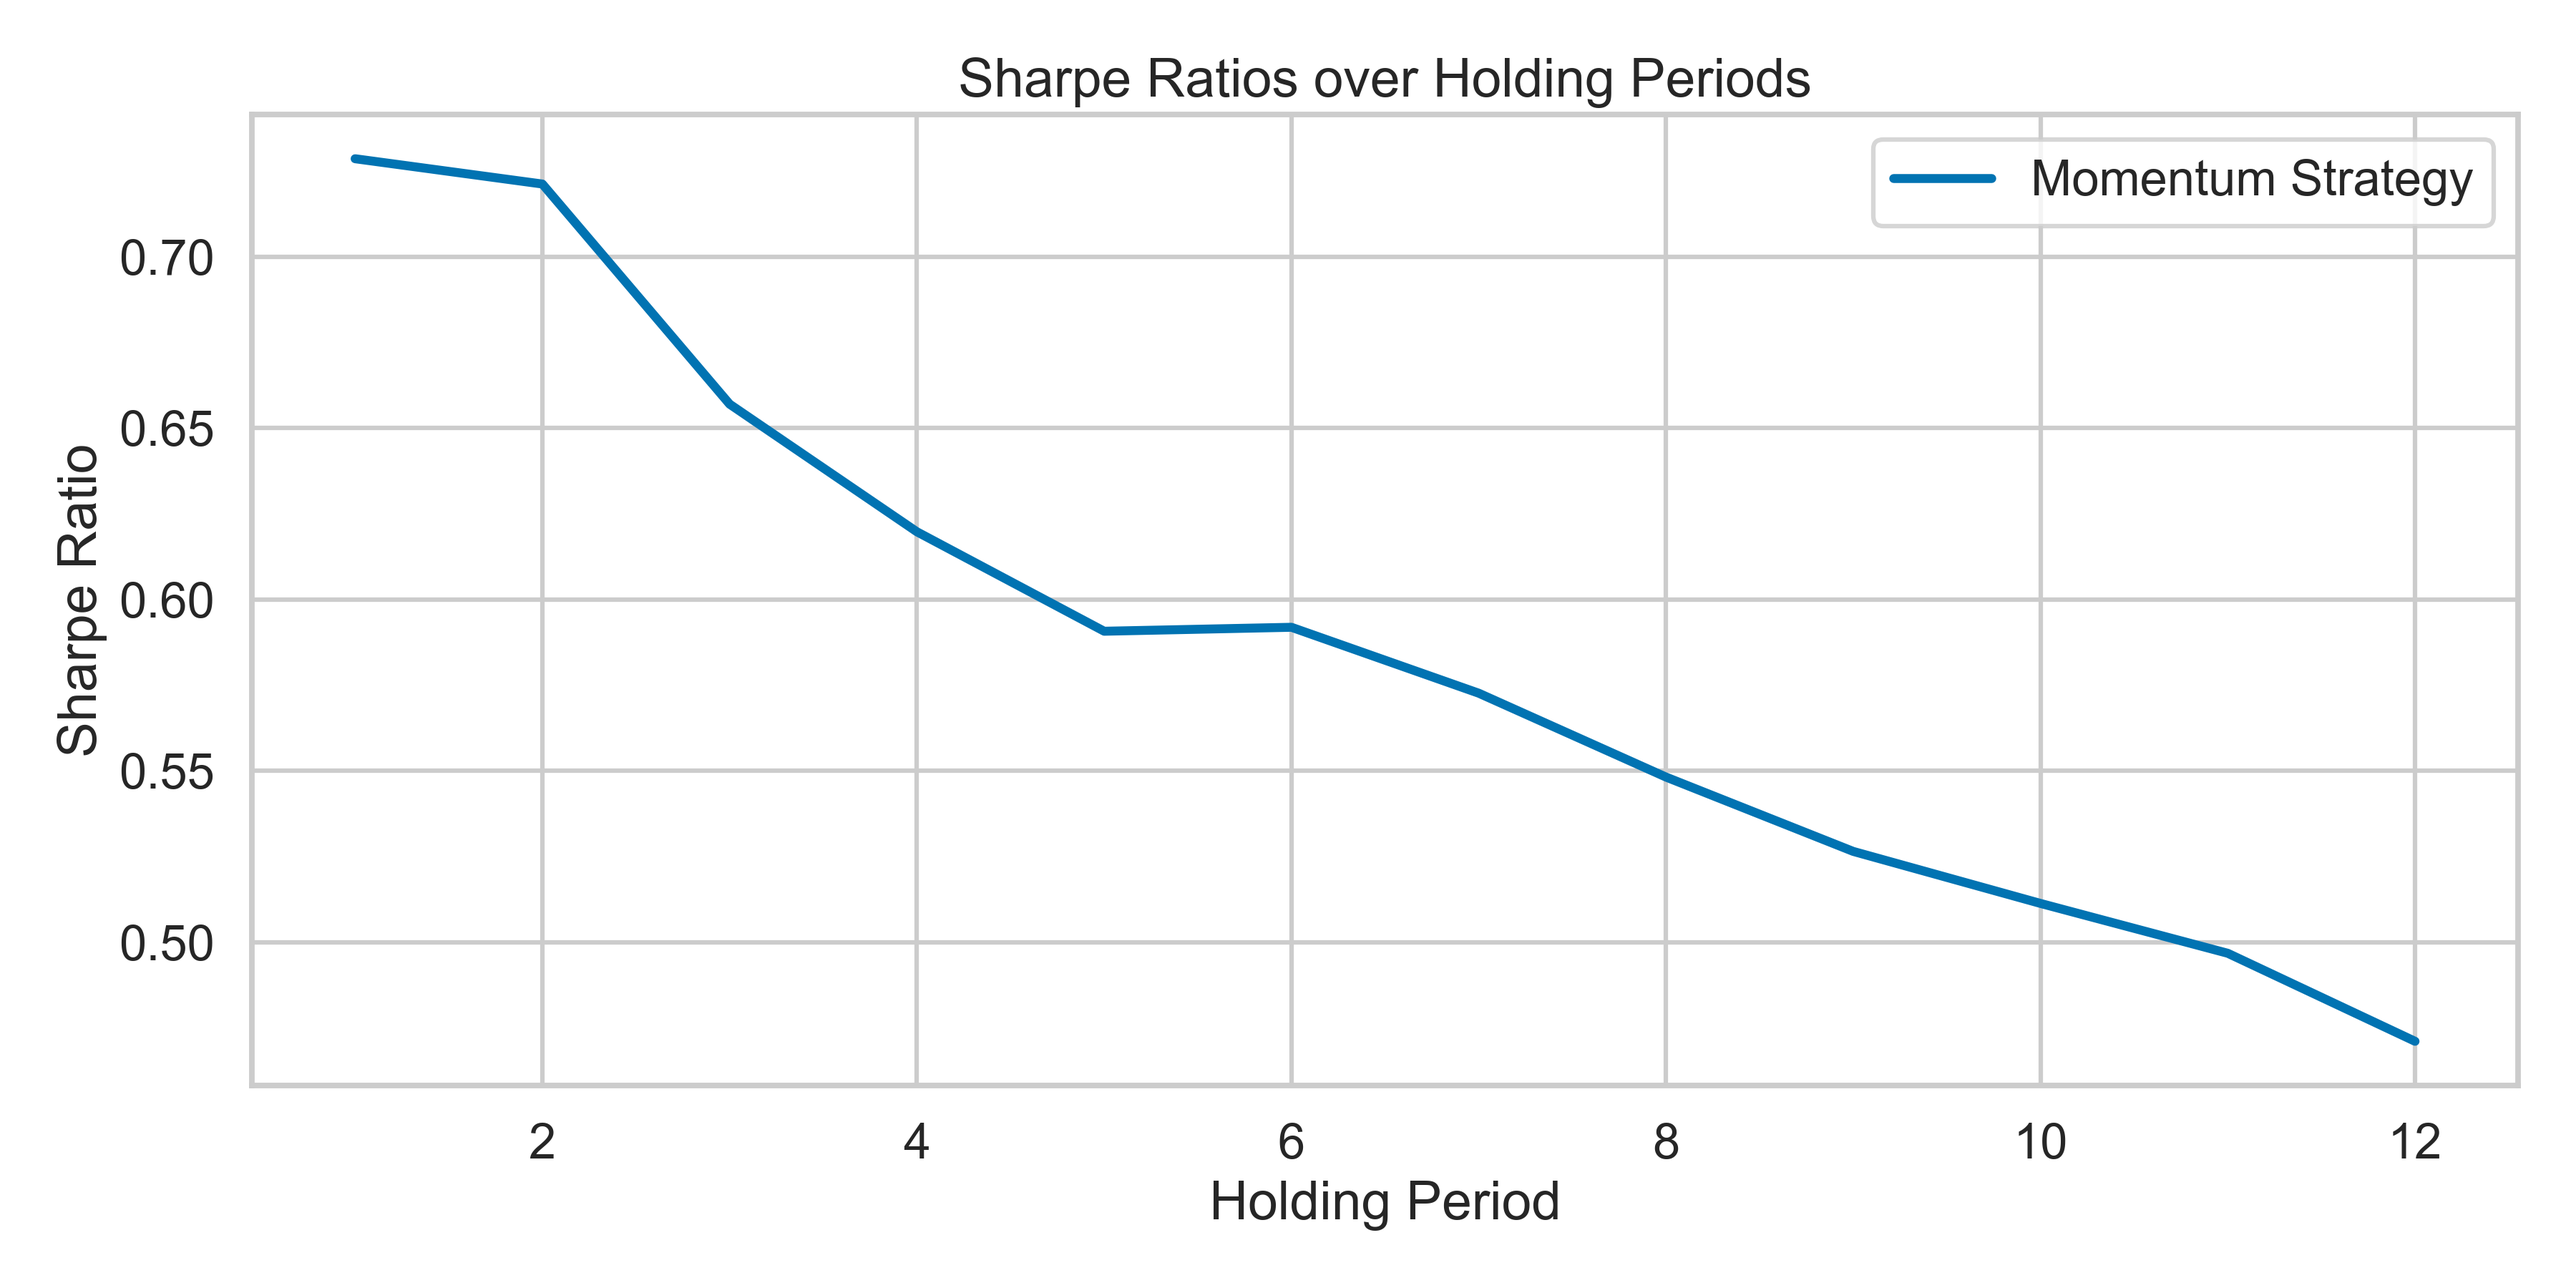
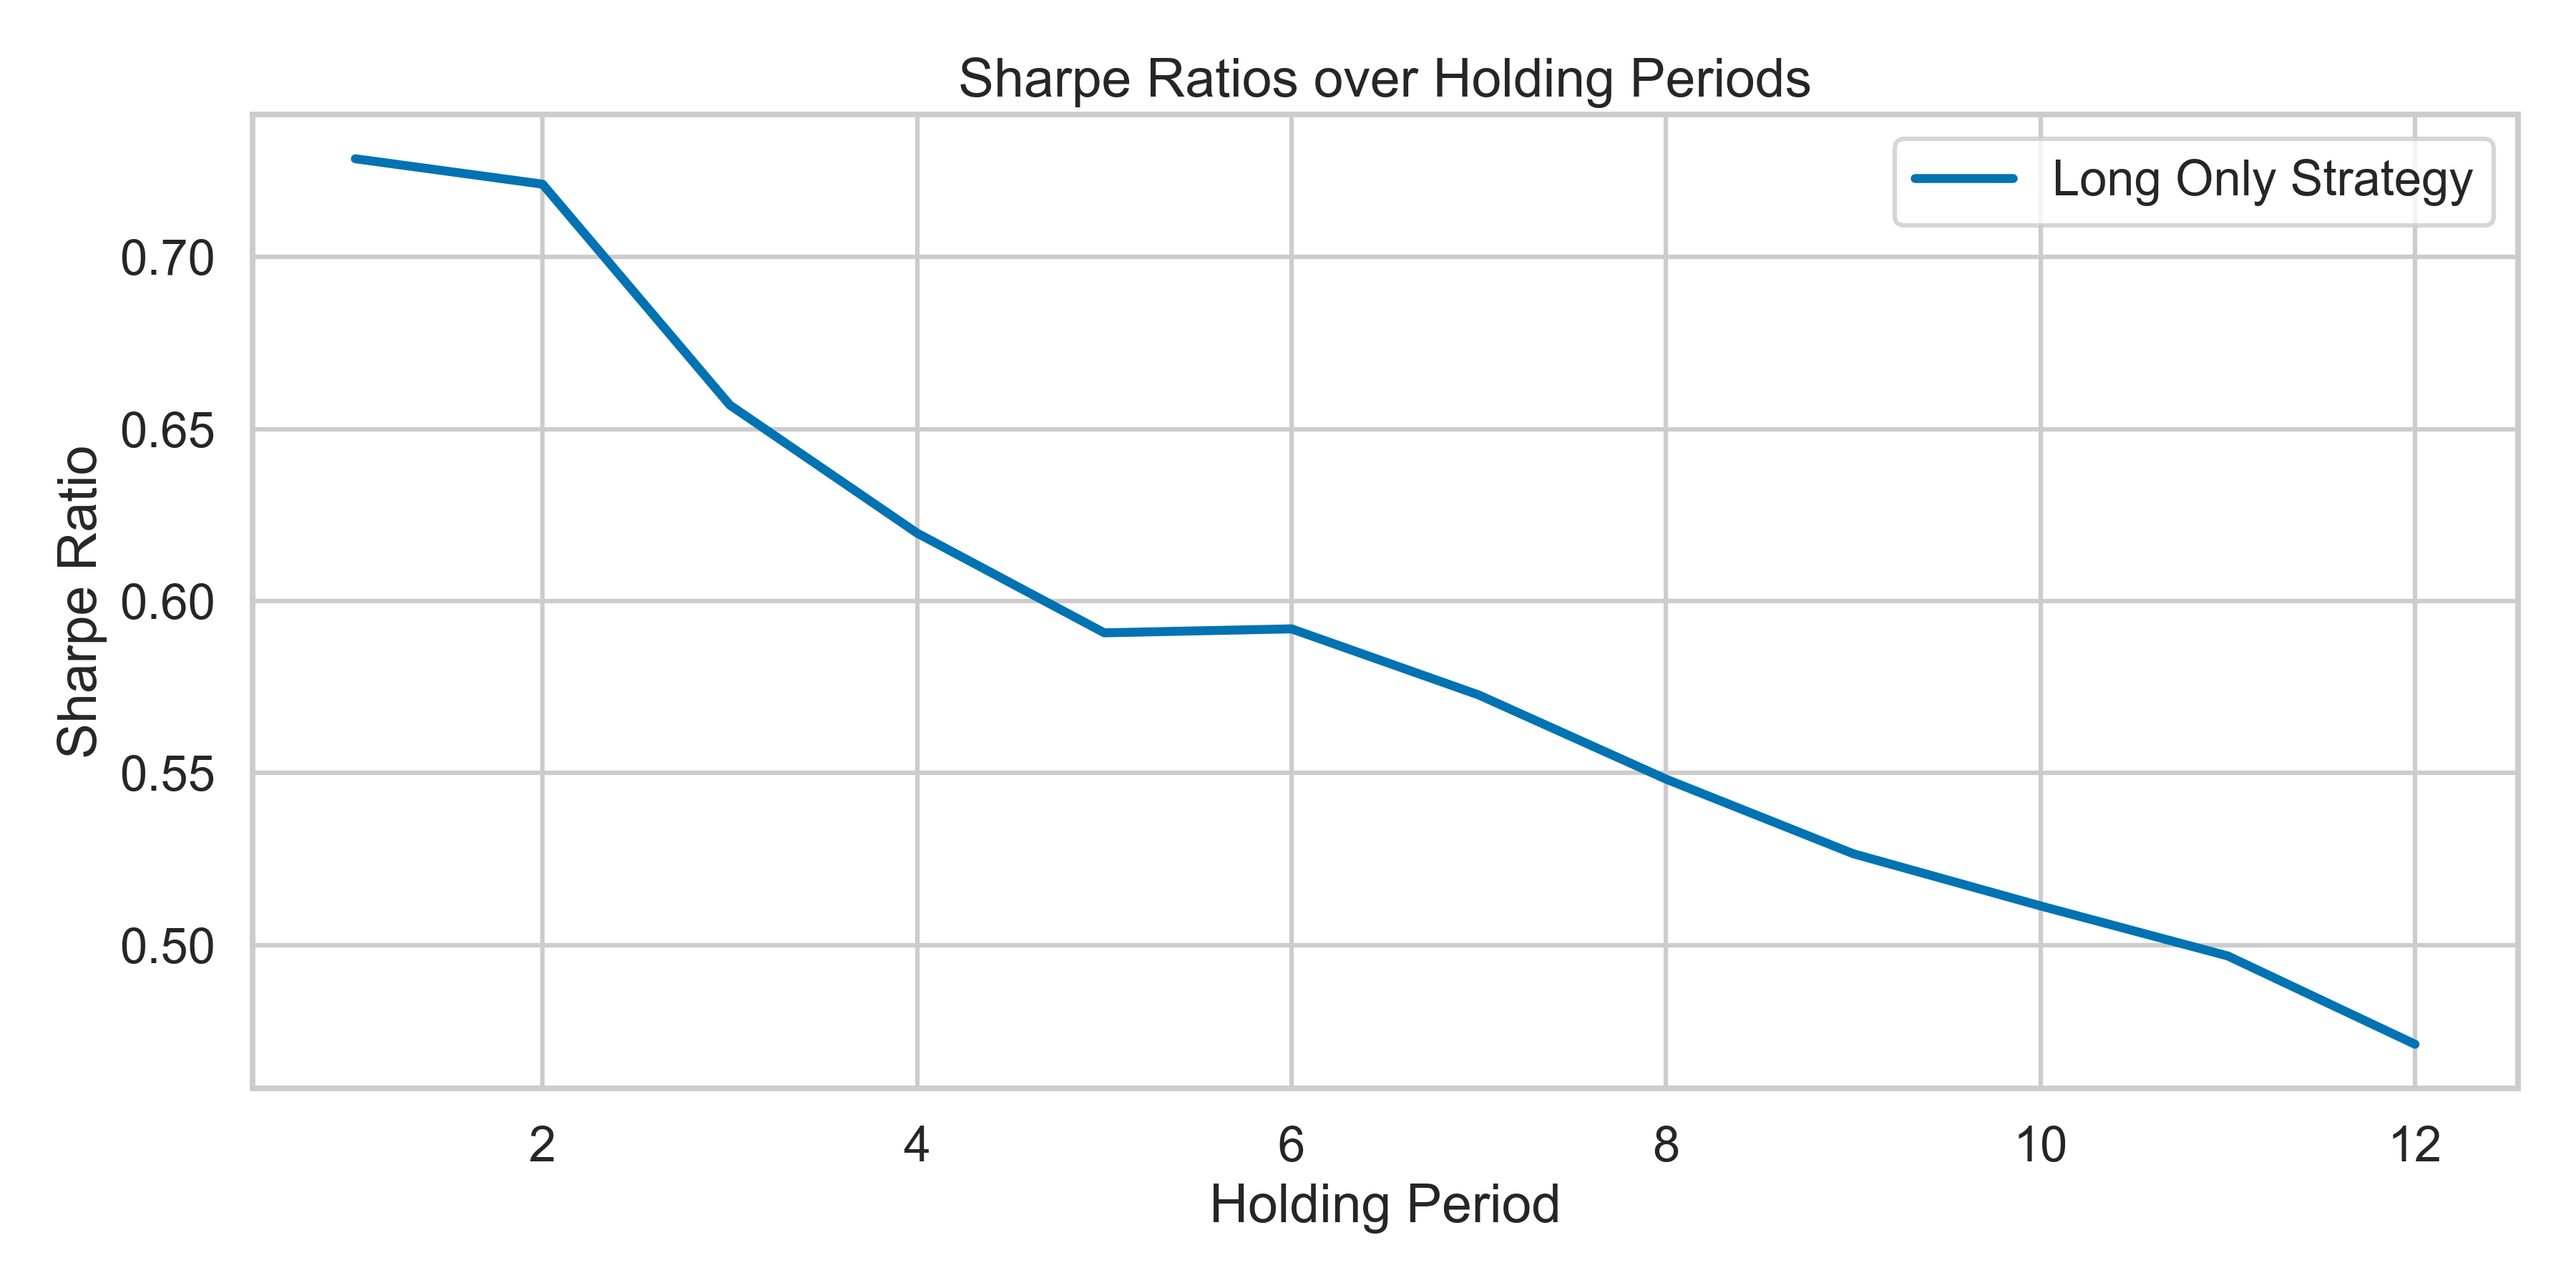
Small changes in main.py \MK

diff --git a/src/analysis/main.py b/src/analysis/main.py
@@ -132,13 +132,13 @@ def main():
     
     # Custom labels
     labels = {
-        'Strategy_Returns': 'Long Momentum Strategy',
+        'Strategy_Returns': 'Long Only Strategy',
         'Benchmark': 'SPI',
-        'Portfolio_Returns': 'Long Momentum Strategy',
-        'xs_Return': 'Long Momentum Strategy',
-        'trx_cost_0.001': 'Strategy with Trx Cost: 0.1%',
-        'trx_cost_0.005': 'Strategy with Trx Cost: 0.5%',
-        'trx_cost_0.01': 'Strategy with Trx Cost: 1.0%',
+        'Portfolio_Returns': 'Long Only Strategy',
+        'xs_Return': 'Long Only Strategy',
+        'trx_cost_0.001': 'Long Only with Trx Cost: 0.1%',
+        'trx_cost_0.005': 'Long Only with Trx Cost: 0.5%',
+        'trx_cost_0.01': 'Long Only with Trx Cost: 1.0%',
     }
     
     # Create plot and save it
@@ -172,7 +172,7 @@ def main():
     
     plotRobustnessChecks(
         rc_holding_period,
-        label = "Momentum Strategy",
+        label = "Long Only Strategy",
         title='Sharpe Ratios over Holding Periods',
         x_label='Holding Period',
         y_label='Sharpe Ratio',
@@ -203,7 +203,7 @@ def main():
     
     plotRobustnessChecks(
         rc_lookback_period,
-        label = "Momentum Strategy",
+        label = "Long Only Strategy",
         title='Sharpe Ratios over Lookback Periods',
         x_label='Lookback Period',
         y_label='Sharpe Ratio',
@@ -234,9 +234,9 @@ def main():
     
     plotRobustnessChecks(
         rc_number_assets,
-        label = "Momentum Strategy",
-        title='Sharpe Ratios over Number Assets Long/Short',
-        x_label='Number Assets Long/Short',
+        label = "Long Only Strategy",
+        title='Sharpe Ratios over Number Assets Long',
+        x_label='Number Assets Long',
         y_label='Sharpe Ratio',
         savefig=True,
         filename=visualization_path / 'rc_number_assets.png'

diff --git a/data/results/summary_performance_longShort.tex b/data/results/summary_performance_longShort.tex
@@ -2,26 +2,26 @@
 \toprule
 Metric & Value \\
 \midrule
-Arithmetic Avg Total Return & 17.0147 \\
-Arithmetic Avg Excess Return & 15.1918 \\
-Geometric Avg Total Return & 16.9436 \\
-Geometric Avg Excess Return & 15.1080 \\
+Arithmetic Avg Total Return & 17.0170 \\
+Arithmetic Avg Excess Return & 15.1942 \\
+Geometric Avg Total Return & 16.9462 \\
+Geometric Avg Excess Return & 15.1106 \\
 Std of Excess Returns (Annualized) & 0.1575 \\
-Sharpe Ratio (Arithmetic) & 0.9644 \\
-Sharpe Ratio (Geometric) & 0.9591 \\
+Sharpe Ratio (Arithmetic) & 0.9645 \\
+Sharpe Ratio (Geometric) & 0.9592 \\
 Min Excess Return & -0.2251 \\
 Max Excess Return & 0.1612 \\
-Skewness of Excess Return & -0.8737 \\
-Kurtosis of Excess Return & 4.2202 \\
-Alpha (Arithmetic) & 16.6550 \\
-Alpha (Geometric) & 16.7580 \\
-T-stat of Alpha & 5.6465 \\
+Skewness of Excess Return & -0.8736 \\
+Kurtosis of Excess Return & 4.2197 \\
+Alpha (Arithmetic) & 16.6572 \\
+Alpha (Geometric) & 16.7604 \\
+T-stat of Alpha & 5.6470 \\
 Beta (Factor Return) & -0.4300 \\
 Std Dev of Excess Returns & 0.0455 \\
 Monthly Excess Return & 0.0127 \\
-T-stat of Monthly Excess Return & 4.8139 \\
-Lag 1 Autocorrelation & 0.1395 \\
+T-stat of Monthly Excess Return & 4.8145 \\
+Lag 1 Autocorrelation & 0.1394 \\
 Lag 2 Autocorrelation & -0.0697 \\
-Lag 3 Autocorrelation & 0.0073 \\
+Lag 3 Autocorrelation & 0.0072 \\
 \bottomrule
 \end{tabular}
